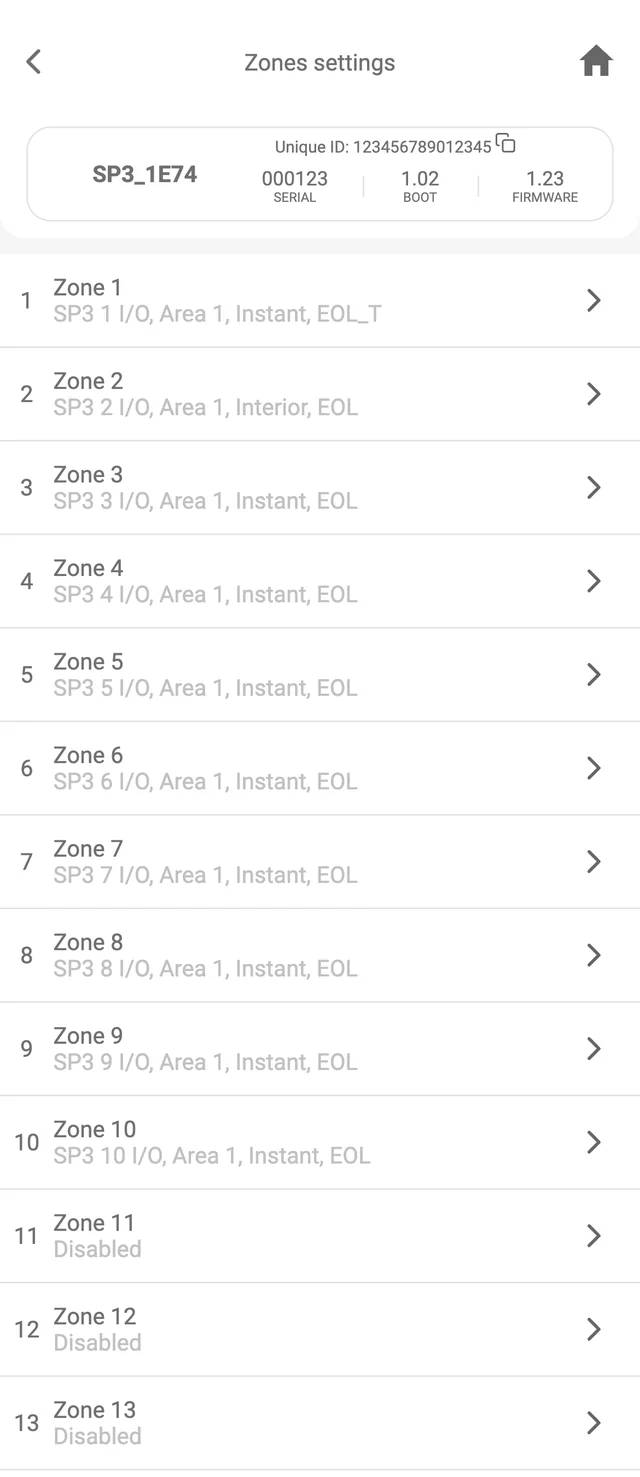
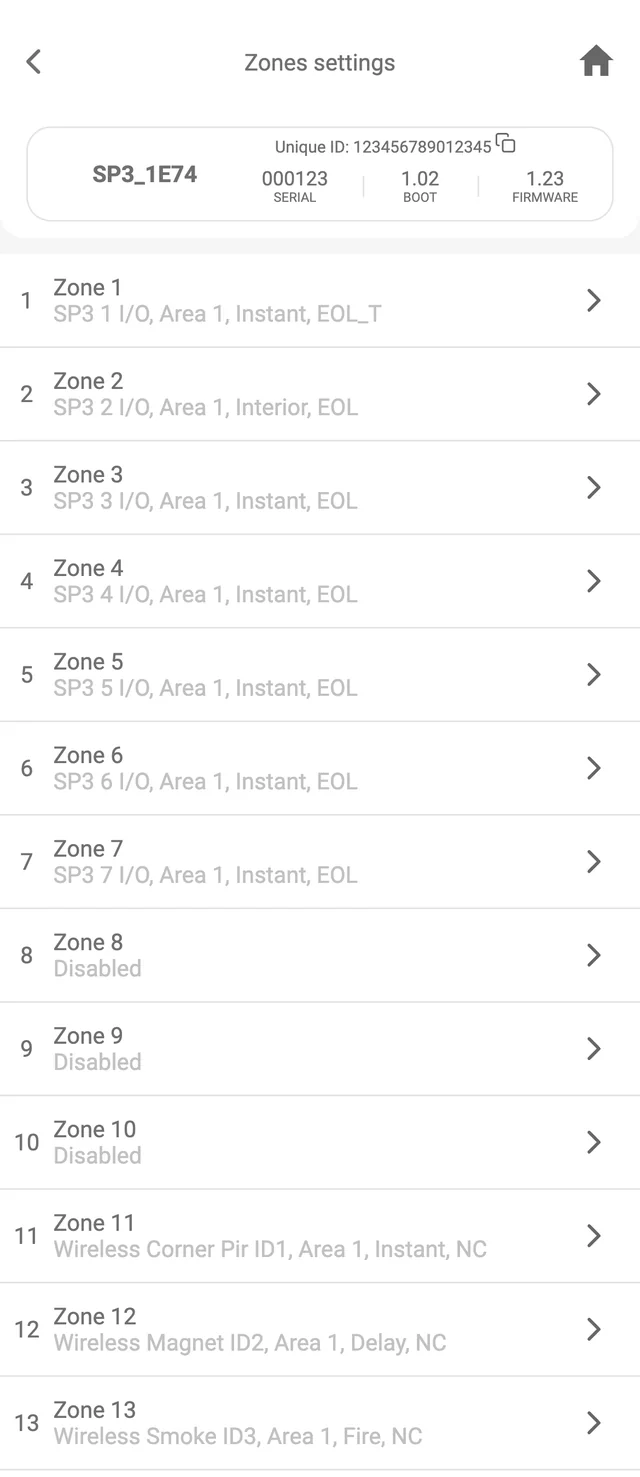
SP3 (EN): System Options review fixes
From the review (Codex, checked against Protegus_v3 634717bf):
- Intro: the app's WiFi setup is offered only for revisions starting with
  1, 2, 3E or 52, else USB; app steps with the first-use warning, the access
  code after Read and Write on Advanced settings; Write [F5] added to the
  TrikdisConfig steps; "test the panel" removed from the TrikdisConfig-only
  list (that test is a general procedure).
- System general: the missing name pairs (Suspend/Restore event reporting,
  Power failure delay -> AC failure delay), the 19-character System name,
  what Set time does, the SIM group's revision rule, fw 1.21 for Preferred
  carrier. Its screenshot is split at the SIM group and shown as a pair, so
  it prints at half height.
- Areas, Schedulers, Holidays, Access: literal alt texts, how to edit in
  the app, Keyswich as TrikdisConfig spells it, SIM card permission as a
  note, what Editable/Visible/Hidden apply to; the TrikdisConfig note named
  as TrikdisConfig's, and the missing blank line after it.
- Shared descriptions a little more tool-neutral where cheap.

EN PDF: 90 pages / 111 images, 0 cut, 16 tab labels for 16 tabs.

diff --git a/docs/en/control-panels/sp3/index.md b/docs/en/control-panels/sp3/index.md
@@ -764,13 +764,17 @@ An audio signal accompanies the beginning and end of the audio file recording. A
 
 ## Setting parameters <span id="5-setting-parameters-using-trikdisconfig-software"></span>
 
-Most settings described below can be changed in the Protegus app or in TrikdisConfig. What each setting does is described once; each section gives the steps for both tools, with the app’s names where they differ. Settings and actions available in only one tool are marked; only TrikdisConfig can restore default settings, update the firmware, test the panel, set SMS and call reporting to users for zones, PGM outputs and events, edit the events’ SMS texts, and set the SMS ping.
+Most settings described below can be changed in the Protegus app or in TrikdisConfig. What each setting does is described once; where a section has a Protegus app | TrikdisConfig switch, it gives the steps for both tools, with the app’s names where they differ. Settings and actions available in only one tool are marked; only TrikdisConfig can restore default settings, update the firmware, set SMS and call reporting to users for zones, PGM outputs and events, edit the events’ SMS texts, and set the SMS ping.
 
 === "Protegus app"
 
-    **Before you configure in the app.** The control panel must be online and added to a Protegus2 account (see “Linking the „FLEXi“ SP3 to a user’s Protegus2 account” above), and its firmware must be 1.12 or later: with older firmware the app says the version is not supported and shows no **Read** button. A panel that is not yet connected (SIM PIN, APN or WiFi not set) is set up first over USB in TrikdisConfig, or, for a WiFi model, from the phone app’s WiFi setup that the app offers when it cannot find the panel online [to confirm: which SP3 variants the app’s WiFi setup supports].
+    **Before you configure in the app.** The control panel must be online and added to a Protegus2 account (see [Linking the „FLEXi“ SP3 to a user’s Protegus2 account](#41-linking-the-flexi-sp3-to-a-users-protegus2-account)), and its firmware must be 1.12 or later: with older firmware the app says the version is not supported and shows no **Read** button. A panel that is not yet online is set up first over USB in TrikdisConfig. When a panel is added in the phone app and the app cannot find it online, it offers to set up the panel’s WiFi from the phone only for revisions starting with 1, 2, 3E or 52; for the other models, use USB.
 
-    Open the system in the Protegus app and go to **Settings → Advanced settings**. Tap **Read** to load the panel’s settings, change what you need, then tap **Write** to save them to the panel. The top of each screen shows the connected panel: **Unique ID** (IMEI), the version (**SP3_1E74**: revision 1E74), **Serial**, **Boot** and **Firmware**.
+    1. Open the system in the Protegus app and go to **Settings → Advanced settings**. The first time, the app warns that wrong settings can stop the system working; confirm to go on.
+    2. Tap **Read** to load the panel’s settings. If the panel does not use the default administrator code, the app asks for the access code.
+    3. Change the settings, then go back to **Advanced settings** and tap **Write** to save them to the panel.
+
+    The top of each screen shows the connected panel: **Unique ID**, the version (**SP3_1E74**: revision 1E74), **Serial**, **Boot** and **Firmware**.
 
     ![Protegus app, Advanced settings for the FLEXi SP3: device card with Unique ID, SP3_1E74, serial 000123, boot 1.02 and firmware 1.23; Read and Write buttons; menu items System options, Reporting to CMS, Users & Reporting, Modules, Wireless, Zones, PGM, Sensors, System events and Events log.](./protegus-app/sp3-menu-phone.webp){ .trik-mob-img }
 
@@ -785,6 +789,8 @@ Most settings described below can be changed in the Protegus app or in TrikdisCo
     3.  Launch the configuration software TrikdisConfig. The program will automatically recognize the connected device and will automatically open the „FLEXi“ SP3 configuration window.
 
     4.  Click **Read [F4]** to see current „FLEXi“ SP3 parameters. If a pop-up window appears, enter the *administrator* or *installer* code.
+
+    5.  Change the settings, then click **Write [F5]** to save them to the „FLEXi“ SP3.
 
 ### Description of TrikdisConfig status bar 
 
@@ -814,19 +820,25 @@ When the **Read [F4]** button is clicked, the program will read and display the 
 
     Open **System options → System general**.
 
-    ![Protegus app, System options, System general for the FLEXi SP3. General: Account No. 0001, System name SP3 security77, Test period 1 day(s) 0 h, Start test at 13:30, Clear events after reset on, Text language Cyrillic alphabet, Suspend event reporting 10 same events per 10 s, Restore event reporting after 1 min, EOL type 2k2+2k2+4k7, Communication path test 1 day(s), LED out for 2Wire fire sensor off, AC failure delay 300 s. SIM: SIM card PIN 1234, APN internet. Time settings: Read time and Set time buttons, Time zone +2 h 0 min, Update time through GSM modem, Daylight saving time on.](./protegus-app/sp3-systemoptions-general-phone.webp){ .trik-mob-img }
+    <span class="trik-mob-pair">
+    <span class="trik-mob-pair__item"><img class="trik-mob-img" alt="Protegus app, System options, System general, top: device card; General group with Account No. 0001, System name SP3 security77, Test period 1 day(s) 0 h, Start test at 13:30, Clear events after reset on, Text language Cyrillic alphabet, Suspend event reporting 10 same events per 10 s, Restore event reporting after 1 min, EOL type 2k2+2k2+4k7, Communication path test 1 day(s), LED out for 2Wire fire sensor off, AC failure delay 300 s." src="./protegus-app/sp3-systemoptions-general-1-phone.webp" /><span class="trik-mob-pair__caption">General</span></span>
+    <span class="trik-mob-pair__item"><img class="trik-mob-img" alt="Protegus app, System general, bottom: SIM group with Preferred carrier empty, SIM card PIN 1234, APN internet, Login, Password and Locked ICCID empty; Time settings group with Read time and Set time buttons, Module time N/A, Time zone +2 h 0 min, Update time through GSM modem, Daylight saving time on." src="./protegus-app/sp3-systemoptions-general-2-phone.webp" /><span class="trik-mob-pair__caption">SIM, Time settings</span></span>
+    </span>
 
     | In TrikdisConfig | In the Protegus app |
     |---|---|
     | **Object ID** | **Account No.** |
     | **Object name** | **System name** |
+    | **Suspend event reporting when** … **same events per** … **s** | **Suspend event reporting** |
+    | **Restore event reporting after** | **Restore event reporting** |
     | **Preferred operator** | **Preferred carrier** |
     | **Set PC time** | **Set time** |
-    | **Time zone (Hours)** | **Time zone** |
+    | **Time zone (hours)** | **Time zone** |
     | **Time set** | **Update time through** |
-    | Module's time | **Module time** |
+    | **Power failure delay** | **AC failure delay**, in the General group |
+    | **Module's time** | **Module time** |
 
-    The **SIM** group appears on models with a mobile modem. **Areas in test SMS** and **Call** are not in the app.
+    **System name** takes up to 19 characters in the app. **Set time** sends the phone’s current time to the panel at once. The **SIM** group appears on revisions starting with 1, 2, 52, 4 or 6, but not 10 or 20; **Preferred carrier** needs firmware 1.21 or later. **Areas in test SMS** and **Call** are not in the app.
 
 === "TrikdisConfig"
 
@@ -838,15 +850,15 @@ When the **Read [F4]** button is clicked, the program will read and display the 
 
 - If reports will be sent to CMS, enter the **Object ID** (4 symbol hexadecimal number, 0-9, A-F. **Do not use FFFE, FFFF Object ID.**) given by the CMS.
 
-- **Object name** – will be included in reports sent via SMS messages (up to 20 symbols, letters and numbers can be used).
+- **Object name** – will be included in reports sent via SMS messages (up to 20 symbols in TrikdisConfig, 19 in the app; letters and numbers can be used).
 
-- **Test period** – if the box is ticked, periodic test reports will be sent every set period, unless **Start test at** is ticked and a time is set.
+- **Test period** – periodic test reports are sent every set period, unless **Start test at** is set.
 
-- **Start test at** – tick the box and specify a time when test reports should be sent.
+- **Start test at** – the time of day when test reports are sent.
 
 - **Areas in test SMS** – the current protection modes of the specified areas will be included into the periodic test report. *Only in TrikdisConfig.*
 
-- **Clear Events after reset** – if the box is ticked, all unsent event reports in buffer memory will be deleted if the control panel is reset.
+- **Clear Events after reset** – if it is on, all unsent event reports in buffer memory will be deleted if the control panel is reset.
 
 - **Text language** – specific symbols of the selected language will be used in SMS messages.
 
@@ -860,7 +872,7 @@ When the **Read [F4]** button is clicked, the program will read and display the 
 
 - **Communication path test** – specify the time interval after which the control panel will check the Backup communication channels by sending messages to the CMS. After sending the messages on the Backup communication channels, the control panel will return to the Primary communication channel.
 
-- **LED out as 2Wire fire** - check the box when you connect the two-wire fire detector to the LED output.
+- **LED out for 2Wire fire sensor** - turn it on when the two-wire fire detector is connected to the LED output.
 
 **Settings group “SIM”**
 
@@ -881,9 +893,9 @@ You can set the time by clicking the **Set PC time** button. If **Disabled** is 
 
 - **Time set** – specify a server to synchronize the ***„FLEXi“ SP3**’s* internal clock with. Synchronization occurs after the control panel is powered on.
 
-- **Daylight saving time** – if you check the box, the control panel's internal clock will be automatically switched to summer or winter time.
+- **Daylight saving time** – if it is on, the control panel's internal clock will be automatically switched to summer or winter time.
 
-- **AC failure delay** - in the event of a power failure in the main power supply, a power failure notification will be sent after the specified time delay. When the supply voltage is restored, a notification of the supply voltage recovery will be sent after the specified time delay.
+- **Power failure delay** - in the event of a power failure in the main power supply, a power failure notification will be sent after the specified time delay. When the supply voltage is restored, a notification of the supply voltage recovery will be sent after the specified time delay.
 
 **Areas**
 
@@ -893,15 +905,16 @@ You can set the time by clicking the **Set PC time** button. If **Disabled** is 
 
     ![Protegus app, System options, Areas: Areas enabled 8, and the list Area 1 to Area 8.](./protegus-app/sp3-systemoptions-areas-phone.webp){ .trik-mob-img }
 
-    ![Protegus app, Area 1: Area name Area 1, Entry delay 10, Exit delay 45, Bell time 300, Squawk off, Re-ARM off, Force-ARM off, Keyswitch mode Level, Tamper action Always audible.](./protegus-app/sp3-systemoptions-area-phone.webp){ .trik-mob-img }
+    ![Protegus app, Area screen: Area name Area 1, Entry delay 10, Exit delay 45, Bell time 300, Squawk off, Re-ARM off, Force-ARM off, Keyswitch mode Level, Tamper action Always audible.](./protegus-app/sp3-systemoptions-area-phone.webp){ .trik-mob-img }
 
     | In TrikdisConfig | In the Protegus app |
     |---|---|
     | **Partitions enabled** | **Areas enabled** |
     | **Partition name** | **Area name** |
     | **Entry**, **Exit**, **Bell** | **Entry delay**, **Exit delay**, **Bell time** |
-    | **Keyswitch** | **Keyswitch mode** |
+    | **Keyswich** (as TrikdisConfig spells it) | **Keyswitch mode** |
     | **Tamper** | **Tamper action** |
+    | Tamper: **Audible when protected** | **Audible when armed** |
 
     On revisions starting with 4 or 6, with firmware 1.15 or later, the app also shows **Arm after** [to confirm: what it does].
 
@@ -923,7 +936,7 @@ You can set the time by clicking the **Set PC time** button. If **Disabled** is 
 
 - **Squawk** - the siren will make a short sound once when the alarm is armed and twice when it is disarmed.
 
-- **Re-ARM** – tick this box if you want the system to automatically re-arm the alarm system after the system was disarmed remotely, but the *Delay* zone was not violated during the set entry time.
+- **Re-ARM** – turn it on if you want the system to automatically re-arm the alarm system after the system was disarmed remotely, but the *Delay* zone was not violated during the set entry time.
 
 - **Force-ARM** – tick this box to allow to switch the system to protection (ARM) mode even if *Stay* zones are violated, as long as the *Entry* zone is not violated.
 
@@ -935,9 +948,9 @@ You can set the time by clicking the **Set PC time** button. If **Disabled** is 
 
 === "Protegus app"
 
-    Open **System options → Schedulers**, then tap a scheduler to open its settings.
+    Open **System options → Schedulers**. Tap a scheduler’s time to change it, and its arrow to open the area, action, holiday settings and day buttons.
 
-    ![Protegus app, System options, Schedulers: the first schedule at 22:00, on, Mon to Fri, Arm; the second at 07:00, on, Mon to Fri, Disarm; the others at 00:00, off, Disarm.](./protegus-app/sp3-systemoptions-schedulers-phone.webp){ .trik-mob-img }
+    ![Protegus app, System options, Schedulers, first rows of the list: 22:00, on, Mon to Fri, Arm; 07:00, on, Mon to Fri, Disarm; then rows at 00:00, off, Disarm.](./protegus-app/sp3-systemoptions-schedulers-phone.webp){ .trik-mob-img }
 
     | In TrikdisConfig | In the Protegus app |
     |---|---|
@@ -974,9 +987,9 @@ In this table, you can arrange scenarios for automatically arming and disarming 
 
 === "Protegus app"
 
-    Open **System options → Holidays**.
+    Open **System options → Holidays**. Tap a date to change it, and the arrow to open the row and choose **Group** 1 to 4.
 
-    ![Protegus app, System options, Holidays: the first holiday 26-12-24 to 26-12-26, on, Group 1; the others 00-01-01 to 00-01-01, on, no group.](./protegus-app/sp3-systemoptions-holidays-phone.webp){ .trik-mob-img }
+    ![Protegus app, System options, Holidays, first rows of the list: 26-12-24 to 26-12-26, on, Group: 1; then rows 00-01-01 to 00-01-01, on, Group: none.](./protegus-app/sp3-systemoptions-holidays-phone.webp){ .trik-mob-img }
 
     | In TrikdisConfig | In the Protegus app |
     |---|---|
@@ -989,7 +1002,7 @@ In this table, you can arrange scenarios for automatically arming and disarming 
 
     <img alt="TrikdisConfig System Options window on the Holidays tab. The visible holiday rows are enabled, show matching start and stop dates of 01.01.2000, and have unchecked boxes for Groups 1–4." src="./image56.webp" style="width:7.086614173228346in;height:1.9291338582677164in" />
 
-- **Enable** – Tick this box to enable the holiday.
+- **Enable** – turns the holiday on.
 
 - **Start date** – set the start date of the holiday.
 
@@ -1019,15 +1032,15 @@ If at least one control panel internal fault field is checked, then the control 
 
     Open **System options → Access**.
 
-    ![Protegus app, System options, Access: Administrator code, SMS code and Installer code (hidden); Installer permissions: Can change Account No. on; Area settings and the menus Users & Reporting, Modules, Zones, PGM, Reporting to CMS and System events all Editable.](./protegus-app/sp3-systemoptions-access-phone.webp){ .trik-mob-img }
+    ![Protegus app, System options, Access: Administrator code, SMS code and Installer code, codes masked; Installer permissions: Can change Account No. on; Area settings and the menus Users & Reporting, Modules, Zones, PGM, Reporting to CMS and System events all Editable.](./protegus-app/sp3-systemoptions-access-phone.webp){ .trik-mob-img }
 
     | In TrikdisConfig | In the Protegus app |
     |---|---|
     | **SMS password** | **SMS code** |
     | Installer permission **Object ID** | **Can change Account No.** |
-    | Installer permission **SIM card** | not in the app |
+    | **Area Settings**, **Menu ‘…’**: **Read only** | **Area settings**, **Menu ‘…’**: **Visible** |
 
-    The app shows **Administrator code** only to the administrator. Each permission is **Editable**, **Visible** (read only) or **Hidden**.
+    **Can change Account No.** is a switch; **Area settings** and each menu are **Editable**, **Visible** (read only) or **Hidden**. The app shows **Administrator code** and **SMS code** only to the administrator. The installer’s **SIM card** permission is set only in TrikdisConfig.
 
 === "TrikdisConfig"
 
@@ -1045,8 +1058,9 @@ If at least one control panel internal fault field is checked, then the control 
 
 !!! note
     If the default *administrator code* is set (123456), after pressing
-    **Read [F4]** the program will immediately show the current
+    **Read [F4]** TrikdisConfig will immediately show the current
     operational parameters of the device without asking for the code.
+
 **Settings group “Installer permissions”**
 
 - Specifies what the installer may change: **Object ID**, the **SIM card** settings (*only in TrikdisConfig*), and each area or menu, which can be editable, read only or hidden.
@@ -1521,7 +1535,7 @@ All wireless sensors can be linked simultaneously. Insert batteries into the wir
 
     Open **Zones**, then tap a zone. The list shows each zone with its input, areas, definition and type; a zone with no input shows **Disabled**.
 
-    ![Protegus app, Zones settings list for the FLEXi SP3: Zone 1 SP3 1 I/O, Area 1, Instant, EOL_T; Zone 2 SP3 2 I/O, Area 1, Interior, EOL; Zones 3 to 10 SP3 3 to 10 I/O, Area 1, Instant, EOL; Zone 11 and the following Disabled.](./protegus-app/sp3-zones-phone.webp){ .trik-mob-img }
+    ![Protegus app, Zones settings for the FLEXi SP3, first rows of the list: Zone 1 SP3 1 I/O, Area 1, Instant, EOL_T; Zone 2 SP3 2 I/O, Area 1, Interior, EOL; Zones 3 to 7 SP3 3 to 7 I/O, Area 1, Instant, EOL; Zones 8 to 10 Disabled; Zone 11 Wireless Corner Pir ID1, Instant; Zone 12 Wireless Magnet ID2, Delay; Zone 13 Wireless Smoke ID3, Fire, all NC in Area 1.](./protegus-app/sp3-zones-phone.webp){ .trik-mob-img }
 
     ![Protegus app, Zone settings for Zone 1: Input SP3 1 I/O, Assigned areas Area 1, Definition Instant, Type EOL_T, Enable chime off, Can be bypassed on, Force ARM off, Report to CMS on, Report to Protegus2 cloud on, Reaction time 400 ms, Zone event CID code 130.](./protegus-app/sp3-zone-phone.webp){ .trik-mob-img }
 
